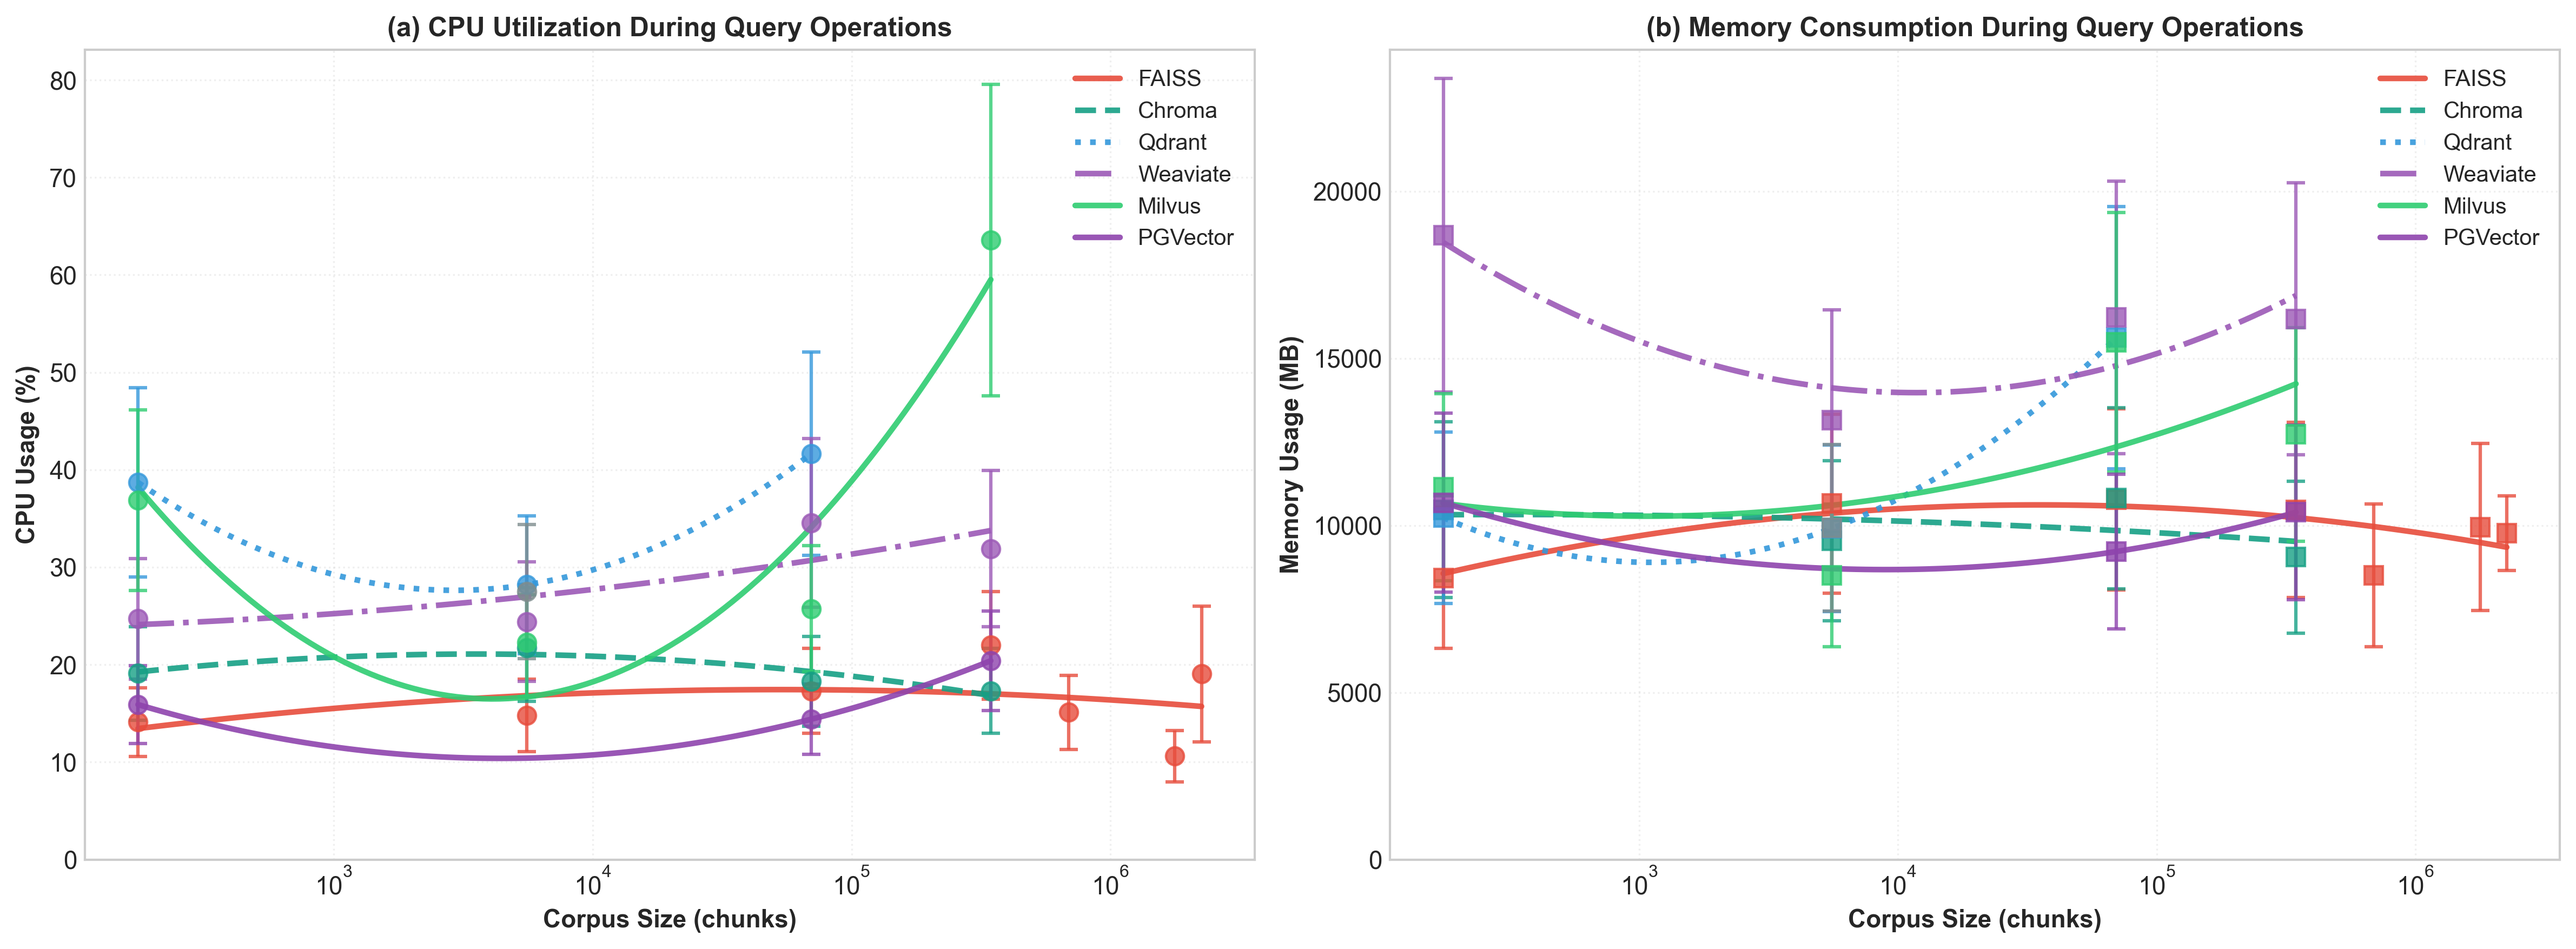
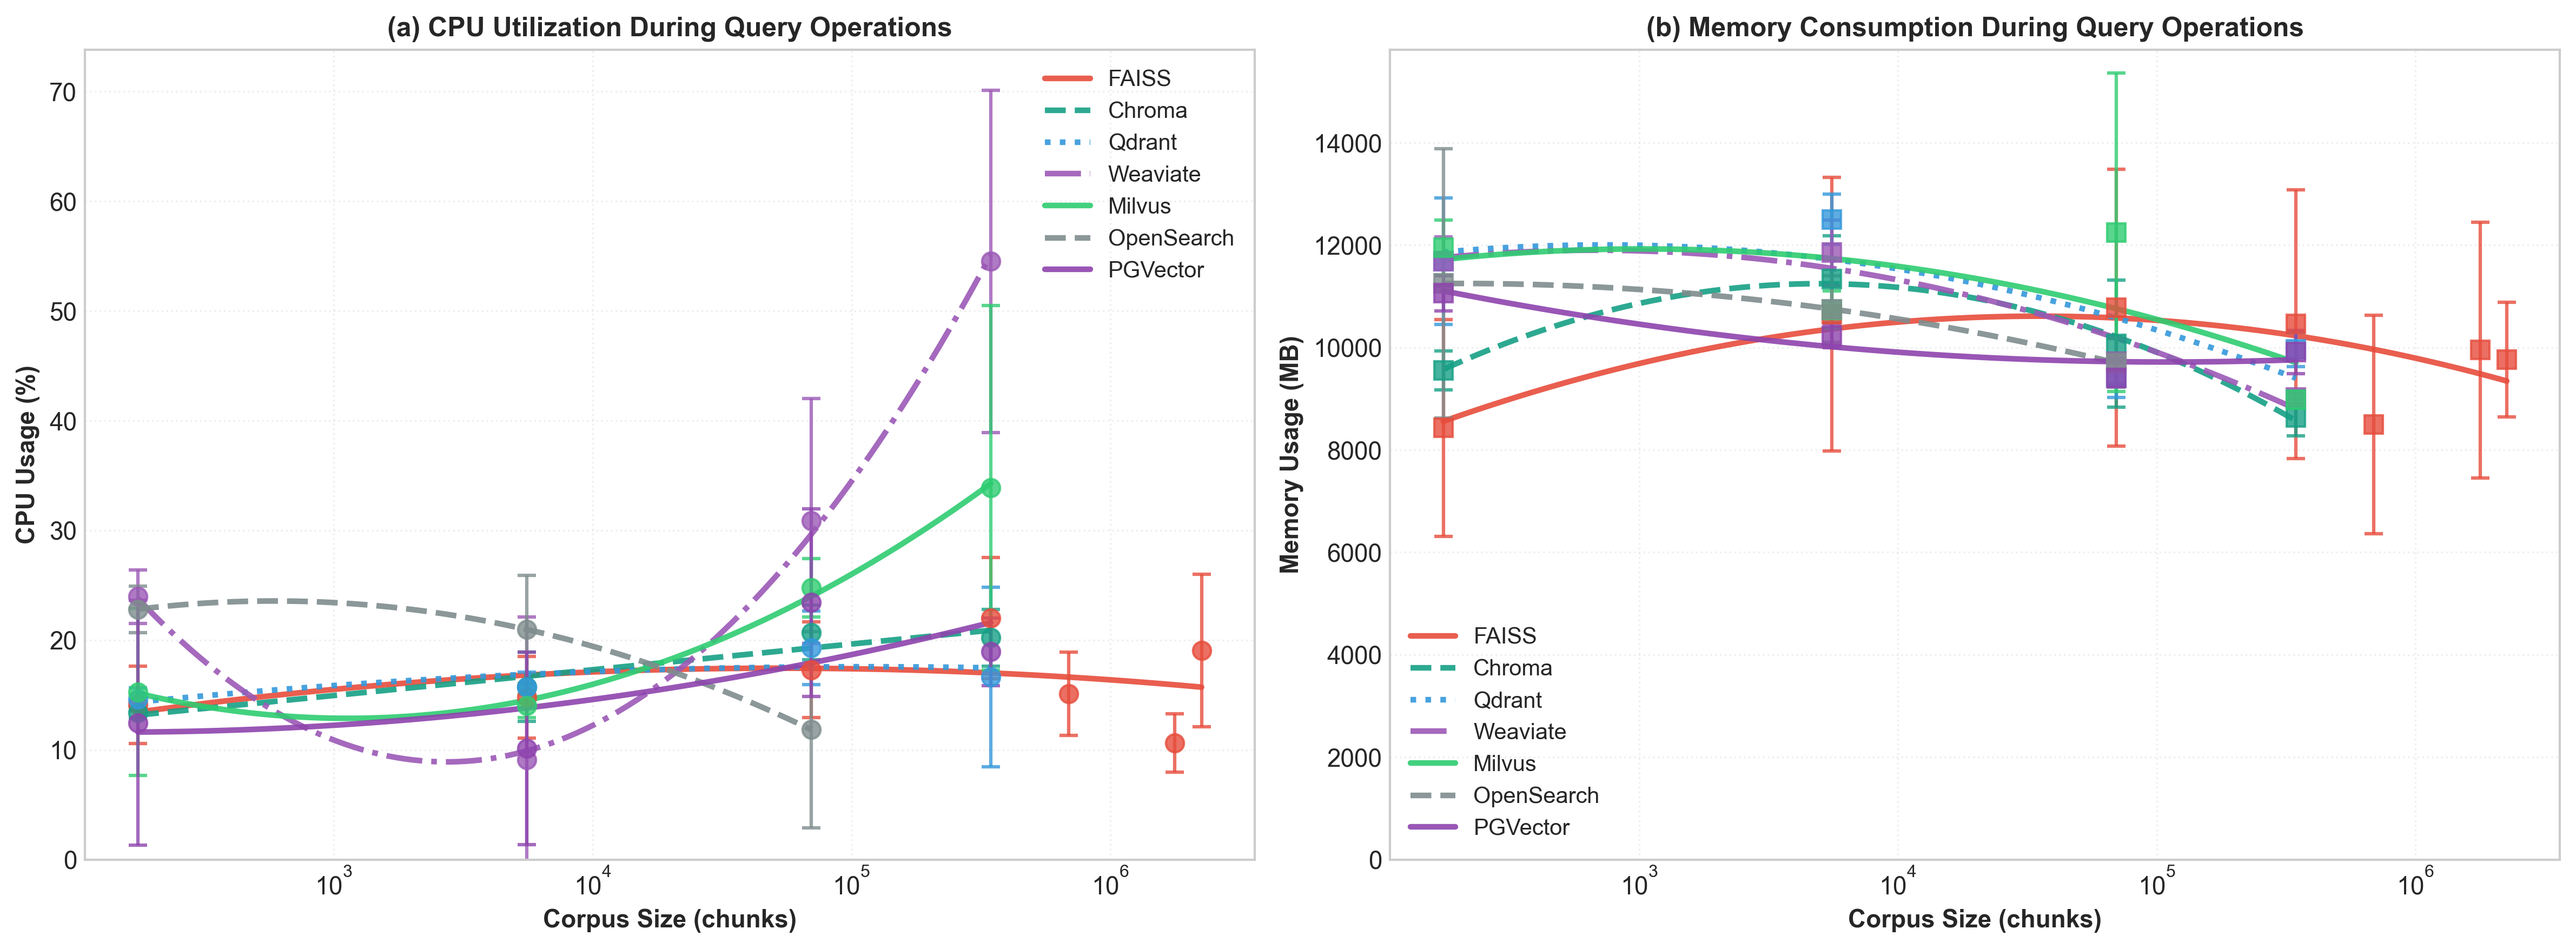
Apply outlier removal to resource utilization plots
ISSUE:
User identified that resource_utilization_comparison.png also had large
error bars suggesting it was using raw data without outlier removal,
inconsistent with the manuscript methodology.

CHANGES:
1. Added outlier removal functions to plot_resource_utilization.py:
   - calculate_modified_zscore()
   - remove_outliers()
   - recalculate_resource_stats_with_outlier_removal()

2. Modified load_resource_metrics() to apply outlier removal:
   - For aggregated N=10 data: recalculates from individual_runs
   - For FAISS N=3 data: applies outlier removal before aggregation
   - Uses cleaned std for error bars

3. Regenerated resource_utilization_comparison.png with cleaned data

RESULTS:
Chroma 50k corpus:
  CPU: Removed 1 outlier (29.5%), error bars ±3.8% → ±2.6% (1.5× reduction)
  Memory: No outliers detected, already consistent (CV=4.2%)

All plots now consistently apply the same outlier removal methodology
described in the manuscript (modified Z-score, threshold 3.5).

This ensures visual consistency across all figures and alignment with
the statistical methodology documented in the paper.

diff --git a/Scripts/plot_resource_utilization.py b/Scripts/plot_resource_utilization.py
@@ -11,8 +11,98 @@ import matplotlib.pyplot as plt
 import numpy as np
 from pathlib import Path
 from collections import defaultdict
+import statistics
 
+# ============================================================================
+# Outlier Detection and Removal Functions
+# ============================================================================
+
+def calculate_modified_zscore(data):
+    """Calculate modified Z-scores for outlier detection using MAD."""
+    if len(data) == 0:
+        return []
+
+    median = np.median(data)
+    mad = np.median([abs(x - median) for x in data])
+
+    if mad == 0:
+        return [0] * len(data)
+
+    modified_zscores = [0.6745 * (x - median) / mad for x in data]
+    return modified_zscores
+
+def remove_outliers(data, threshold=3.5):
+    """Remove outliers using modified Z-score method."""
+    if len(data) <= 3:
+        return data, []
+
+    modified_zscores = calculate_modified_zscore(data)
+    outliers = []
+    cleaned = []
+
+    for value, zscore in zip(data, modified_zscores):
+        if abs(zscore) > threshold:
+            outliers.append(value)
+        else:
+            cleaned.append(value)
+
+    if len(cleaned) < 3:
+        return data, []
+
+    return cleaned, outliers
+
+def recalculate_resource_stats_with_outlier_removal(aggregated_data, threshold=3.5):
+    """Recalculate resource statistics from individual runs with outlier removal."""
+    if 'individual_runs' not in aggregated_data:
+        return None
+
+    runs = aggregated_data['individual_runs']
+
+    # Extract resource metrics from individual runs (top_k=3)
+    cpu_values = []
+    memory_values = []
+
+    for run in runs:
+        if 'query_results' in run:
+            for qr in run['query_results']:
+                if qr.get('top_k') == 3:
+                    if 'resource_metrics' in qr:
+                        rm = qr['resource_metrics']
+                        if 'cpu' in rm and 'avg' in rm['cpu']:
+                            cpu_values.append(rm['cpu']['avg'])
+                        if 'memory' in rm and 'avg_mb' in rm['memory']:
+                            memory_values.append(rm['memory']['avg_mb'])
+                    break
+
+    stats = {}
+
+    # CPU statistics with outlier removal
+    if cpu_values:
+        cpu_clean, cpu_outliers = remove_outliers(cpu_values, threshold)
+        if cpu_clean:
+            stats['cpu'] = {
+                'mean': statistics.mean(cpu_clean),
+                'std': statistics.stdev(cpu_clean) if len(cpu_clean) > 1 else 0,
+                'n': len(cpu_clean),
+                'n_outliers_removed': len(cpu_outliers)
+            }
+
+    # Memory statistics with outlier removal
+    if memory_values:
+        mem_clean, mem_outliers = remove_outliers(memory_values, threshold)
+        if mem_clean:
+            stats['memory'] = {
+                'mean': statistics.mean(mem_clean),
+                'std': statistics.stdev(mem_clean) if len(mem_clean) > 1 else 0,
+                'n': len(mem_clean),
+                'n_outliers_removed': len(mem_outliers)
+            }
+
+    return stats
+
+# ============================================================================
 # Set style for publication-quality plots
+# ============================================================================
 plt.style.use('seaborn-v0_8-whitegrid' if 'seaborn-v0_8-whitegrid' in plt.style.available else 'default')
 plt.rcParams['figure.figsize'] = (16, 12)
 plt.rcParams['font.size'] = 11
@@ -119,7 +209,11 @@ def load_resource_metrics(db_name, results_base_dir):
                     cpu_values = [m['cpu_avg'] for m in n3_metrics if m['cpu_avg'] > 0]
                     mem_values = [m['memory_avg'] for m in n3_metrics]
 
-                    if cpu_values:
+                    # Apply outlier removal to the N=3 data
+                    cpu_clean, cpu_outliers = remove_outliers(cpu_values, threshold=3.5)
+                    mem_clean, mem_outliers = remove_outliers(mem_values, threshold=3.5)
+
+                    if cpu_clean:
                         # Process all other unique corpus sizes
                         n3_dir_names = [str(d[0]) for d in n3_dirs]
                         for corpus_dir, chunks, data in corpus_data:
@@ -142,13 +236,13 @@ def load_resource_metrics(db_name, results_base_dir):
                                         'memory_std': 0,
                                     })
 
-                        # Add the N=3 aggregated point
+                        # Add the N=3 aggregated point (with outlier removal applied)
                         metrics.append({
                             'chunks': n3_chunk_count,
-                            'cpu_avg': np.mean(cpu_values),
-                            'cpu_std': np.std(cpu_values, ddof=1),
-                            'memory_avg': np.mean(mem_values),
-                            'memory_std': np.std(mem_values, ddof=1),
+                            'cpu_avg': np.mean(cpu_clean),
+                            'cpu_std': np.std(cpu_clean, ddof=1) if len(cpu_clean) > 1 else 0,
+                            'memory_avg': np.mean(mem_clean),
+                            'memory_std': np.std(mem_clean, ddof=1) if len(mem_clean) > 1 else 0,
                         })
 
                         metrics = sorted(metrics, key=lambda x: x['chunks'])
@@ -162,27 +256,24 @@ def load_resource_metrics(db_name, results_base_dir):
                     with open(agg_file, 'r') as f:
                         data = json.load(f)
                         if 'statistics' in data:
-                            stats = data['statistics']
+                            # Recalculate statistics with outlier removal
+                            resource_stats = recalculate_resource_stats_with_outlier_removal(data, threshold=3.5)
+
                             mean_result = data.get('mean_result', {})
                             chunks = mean_result.get('ingestion', {}).get('num_chunks', 0)
-                            query_results = mean_result.get('query_results', [])
 
-                            resource_data = None
-                            if isinstance(query_results, list):
-                                for qr in query_results:
-                                    if qr.get('top_k') == 3:
-                                        resource_data = qr.get('resource_metrics', {})
-                                        break
-                            elif isinstance(query_results, dict):
-                                resource_data = query_results.get('3', {}).get('resource_metrics', {})
+                            if resource_stats and chunks > 0:
+                                cpu_avg = resource_stats.get('cpu', {}).get('mean', 0)
+                                cpu_std = resource_stats.get('cpu', {}).get('std', 0)
+                                memory_avg = resource_stats.get('memory', {}).get('mean', 0)
+                                memory_std = resource_stats.get('memory', {}).get('std', 0)
 
-                            if resource_data and chunks > 0:
                                 metrics.append({
                                     'chunks': chunks,
-                                    'cpu_avg': resource_data.get('cpu', {}).get('avg', 0),
-                                    'cpu_std': 0,
-                                    'memory_avg': resource_data.get('memory', {}).get('avg_mb', 0),
-                                    'memory_std': 0,
+                                    'cpu_avg': cpu_avg,
+                                    'cpu_std': cpu_std,
+                                    'memory_avg': memory_avg,
+                                    'memory_std': memory_std,
                                 })
 
             if metrics:
